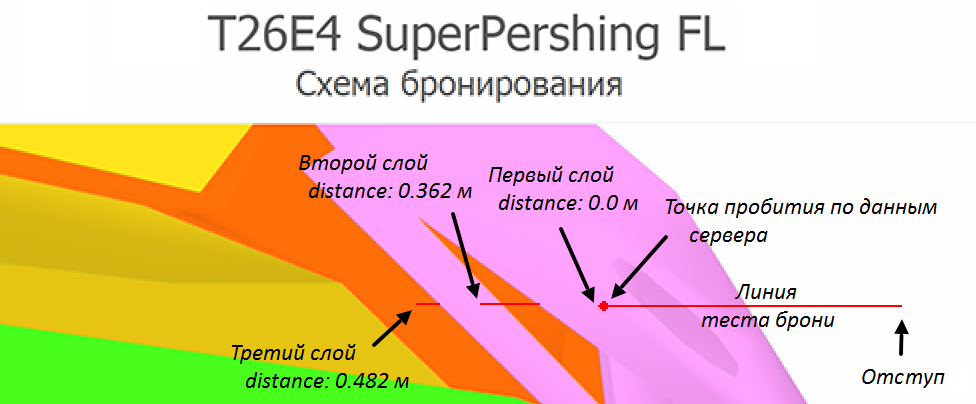
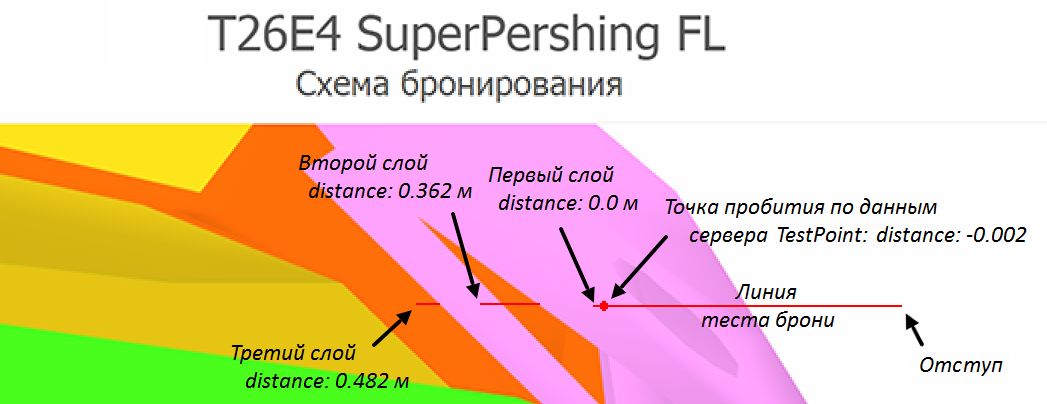
Updated SimpleLogger: TestPoint added to layers list, logs are saved in folders with replay names

diff --git a/SimpleLogger/source/res/scripts/client/gui/mods/mod_simple_logger.py b/SimpleLogger/source/res/scripts/client/gui/mods/mod_simple_logger.py
@@ -1,7 +1,7 @@
 # -*- coding: utf-8 -*-
 
 __author__  = 'StranikS_Scan'
-__version__ = 'V1.1.3 P2.7 W1.5.0 18.05.2019'
+__version__ = 'V1.1.4 P2.7 W1.5.0 23.05.2019'
 
 import BigWorld, Event
 from BattleReplay import g_replayCtrl
@@ -27,14 +27,11 @@ APPLICATION_ID = 'eJwzTExNMTFKTDU2szRITTUwT7EwMzSzSEwyMjcxtDRLMgUAk5oIkw=='.deco
 
 CSV_VERSION = '1.3'
 
-CONFIG_FILENAME = None
-LOG_BATTLES = LOG_PLAYERS = LOG_EVENTS = False
-LOG_BATTLES_FILENAME = None
-LOG_PLAYERS_FILENAME = None
-LOG_EVENTS_FILENAME = None
+LOG_BATTLES = LOG_PLAYERS = LOG_EVENTS = UNIQUE_SUBDIR = False
+CONFIG_FILENAME = LOG_DIR = LOG_BATTLES_FILENAME = LOG_PLAYERS_FILENAME = LOG_EVENTS_FILENAME = None
 
-COLLIDE_INDENT = 2.0 #>--x
-COLLIDE_LENGTH = 5.0 #   x-----> 
+COLLIDE_INDENT = 5.0  #>----x
+COLLIDE_LENGTH = 10.0 #     x----> 
 
 # Classes and functions ===========================================================
 
@@ -93,6 +90,25 @@ EVENTS_HEADER =  ('"arenaUniqueID"','"timeLeft"','timeLeftSec','"event"','"userD
 PLAYERS_STAT_COLLECT = {}
 
 def onBattleLoaded(statistic):
+    global LOG_BATTLES_FILENAME, LOG_PLAYERS_FILENAME, LOG_EVENTS_FILENAME
+    if UNIQUE_SUBDIR:
+        logName = 'temp'
+        replayFileName = g_replayCtrl.getAutoStartFileName()
+        if replayFileName is not None and replayFileName != '':
+            logName, _ = os.path.splitext(os.path.basename(replayFileName))
+        logPath = getLogPath(LOG_DIR + '/'+ logName + '_' + datetime.now().strftime('%d%m%y%H%M%S%f')[:15])
+    else:
+        logPath = getLogPath(LOG_DIR)
+    LOG_BATTLES_FILENAME = logPath + 'sl_battles_ver_%s.csv' % CSV_VERSION
+    LOG_PLAYERS_FILENAME = logPath + 'sl_players_ver_%s.csv' % CSV_VERSION
+    LOG_EVENTS_FILENAME = logPath + 'sl_events_ver_%s.csv' % CSV_VERSION
+    if LOG_BATTLES and not os.path.exists(LOG_BATTLES_FILENAME):
+        printStrings(LOG_BATTLES_FILENAME, BATTLES_HEADER)
+    if LOG_PLAYERS and not os.path.exists(LOG_PLAYERS_FILENAME):
+        printStrings(LOG_PLAYERS_FILENAME, PLAYERS_HEADER)
+    if LOG_EVENTS and not os.path.exists(LOG_EVENTS_FILENAME):
+        printStrings(LOG_EVENTS_FILENAME, EVENTS_HEADER)
+    #--------------
     if LOG_BATTLES:
         player = BigWorld.player()
         araneInfo = None
@@ -229,19 +245,11 @@ else:
     if CONFIG_FILENAME is not None:
         #Config ------------------------------------------
         config = json.loads(re.compile('(/\*(.|\n)*?\*/)|((#|//).*?$)', re.I | re.M).sub('', codecs.open(CONFIG_FILENAME, 'r', 'utf-8-sig').read()))
-        logPath = getLogPath(config['System']['Dir'] + ('/log_' + datetime.now().strftime('%d%m%y_%H%M%S_%f')[:17] if config['System']['UniquePostfix'] else ''))
-        LOG_BATTLES_FILENAME = logPath + 'sl_battles_ver_%s.csv' % CSV_VERSION
-        LOG_PLAYERS_FILENAME = logPath + 'sl_players_ver_%s.csv' % CSV_VERSION
-        LOG_EVENTS_FILENAME = logPath + 'sl_events_ver_%s.csv' % CSV_VERSION
+        LOG_DIR = config['System']['Dir']
+        UNIQUE_SUBDIR = config['System']['UniqueSubDir']
         LOG_BATTLES = config['System']['Log']['Battles']
         LOG_PLAYERS = config['System']['Log']['Players']
         LOG_EVENTS = config['System']['Log']['Events']
-        if LOG_BATTLES and not os.path.exists(LOG_BATTLES_FILENAME):
-            printStrings(LOG_BATTLES_FILENAME, BATTLES_HEADER)
-        if LOG_PLAYERS and not os.path.exists(LOG_PLAYERS_FILENAME):
-            printStrings(LOG_PLAYERS_FILENAME, PLAYERS_HEADER)
-        if LOG_EVENTS and not os.path.exists(LOG_EVENTS_FILENAME):
-            printStrings(LOG_EVENTS_FILENAME, EVENTS_HEADER)
 
     # Hooks ^^^^^^^^^^^^^^^^^^^^^^^^^^^^^^^^^^^^^^^^^^^^^^^^^^^^^^^^^^^^^^^^^
 
@@ -310,29 +318,37 @@ else:
                                          'hasPiercedHit': hasPiercedHit, 'distance': self.position.distTo(attackerPos) if attackerPos else None,
                                          'hitPoints': [{'componentName': point.componentName, 'hitEffectGroup': point.hitEffectGroup} for point in decodedPoints] if decodedPoints else None}))
             hitInfo = []
-            if decodedPoints:
-                firstHitPoint = decodedPoints[0]
-                compMatrix = Matrix(self.appearance.compoundModel.node(firstHitPoint.componentName))
-                firstHitDirLocal = firstHitPoint.matrix.applyToAxis(2)
-                firstHitDir = compMatrix.applyVector(firstHitDirLocal)
-                firstHitDir.normalise()
-                firstHitPos = compMatrix.applyPoint(firstHitPoint.matrix.translation)
-                collisions = self.appearance.collisions.collideAllWorld(firstHitPos - firstHitDir.scale(COLLIDE_INDENT), firstHitPos + firstHitDir.scale(COLLIDE_LENGTH))
-                if collisions:
-                    for collision in collisions: # >-c-b---c->
-                        base = collision[0]
-                        if collision[0] - COLLIDE_INDENT > -0.001:
-                            break
-                    for collision in collisions:
-                        if collision[3] < 0:
-                            continue
-                        if collision[3] not in TankPartIndexes.ALL:
-                            break
-                        material = self.getMatinfo(collision[3], collision[2])
-                        hitInfo.append({'distance': collision[0] - base, 'angleCos': collision[1], 'tankPart': TankPartIndexes.getName(collision[3]), \
-                                        'armor': material.armor if material else None})
-                        if material and material.vehicleDamageFactor > 0 and collision[3] in (TankPartIndexes.HULL, TankPartIndexes.TURRET):
-                            break
+            for encodedPoint in points:
+                compIdx, hitEffectCode, startPoint, endPoint = DamageFromShotDecoder.decodeSegment(encodedPoint, self.appearance.collisions, TankPartIndexes.ALL[-1])
+                if compIdx >= 0 and startPoint != endPoint: 
+                    compMatrix = Matrix(self.appearance.compoundModel.node(TankPartIndexes.getName(compIdx)))
+                    firstHitDir = endPoint - startPoint
+                    firstHitDir.normalise()
+                    firstHitDir = compMatrix.applyVector(firstHitDir)
+                    firstHitPos = compMatrix.applyPoint(startPoint)
+                    collisions = self.appearance.collisions.collideAllWorld(firstHitPos - firstHitDir.scale(COLLIDE_INDENT), firstHitPos + firstHitDir.scale(COLLIDE_LENGTH))
+                    if collisions:
+                        base = None
+                        testPointAdded = collidePointAdded = False
+                        for i, collision in enumerate(collisions):
+                            if collision[3] in TankPartIndexes.ALL:
+                                if base is None:
+                                    base = collision[0] 
+                                if not testPointAdded:
+                                    if collision[0] > COLLIDE_INDENT:
+                                        hitInfo.append('%sTestPoint(distance=%s, tankPart=%s)' % ('' if i > 0 else '', COLLIDE_INDENT - base, TankPartIndexes.getName(compIdx)))
+                                        testPointAdded = True
+                                material = self.getMatinfo(collision[3], collision[2])
+                                hitInfo.append({'distance': collision[0] - base, 'angleCos': collision[1], 'tankPart': TankPartIndexes.getName(collision[3]), \
+                                                'armor': material.armor if material else None})
+                                if not collidePointAdded:
+                                    collidePointAdded = True
+                                if material and material.vehicleDamageFactor > 0 and collision[3] in (TankPartIndexes.HULL, TankPartIndexes.TURRET):
+                                    break
+                        if collidePointAdded:
+                            if not testPointAdded and base is not None:
+                                hitInfo.append('TestPoint(distance=%s, tankPart=%s)' % (COLLIDE_INDENT - base, TankPartIndexes.getName(compIdx)))
+                    break
             eventInfo.append(json.dumps('layers: %s' % hitInfo) if hitInfo else '')
             printStrings(LOG_EVENTS_FILENAME, eventInfo)
 

diff --git a/SimpleLogger/HISTORY.md b/SimpleLogger/HISTORY.md
@@ -1,4 +1,8 @@
-#### Версия: 1.1.3
+#### Версия: 1.1.4
+Добавлена запись о тестируемой точки в список слоёв "layers"
+При записи лога в отдельную папку её название формируется из названия реплея
+
+#### Версия: 1.1.3
 Внесены дополнения в алгоритм коллайда моделей
 
 #### Версия: 1.1.2
